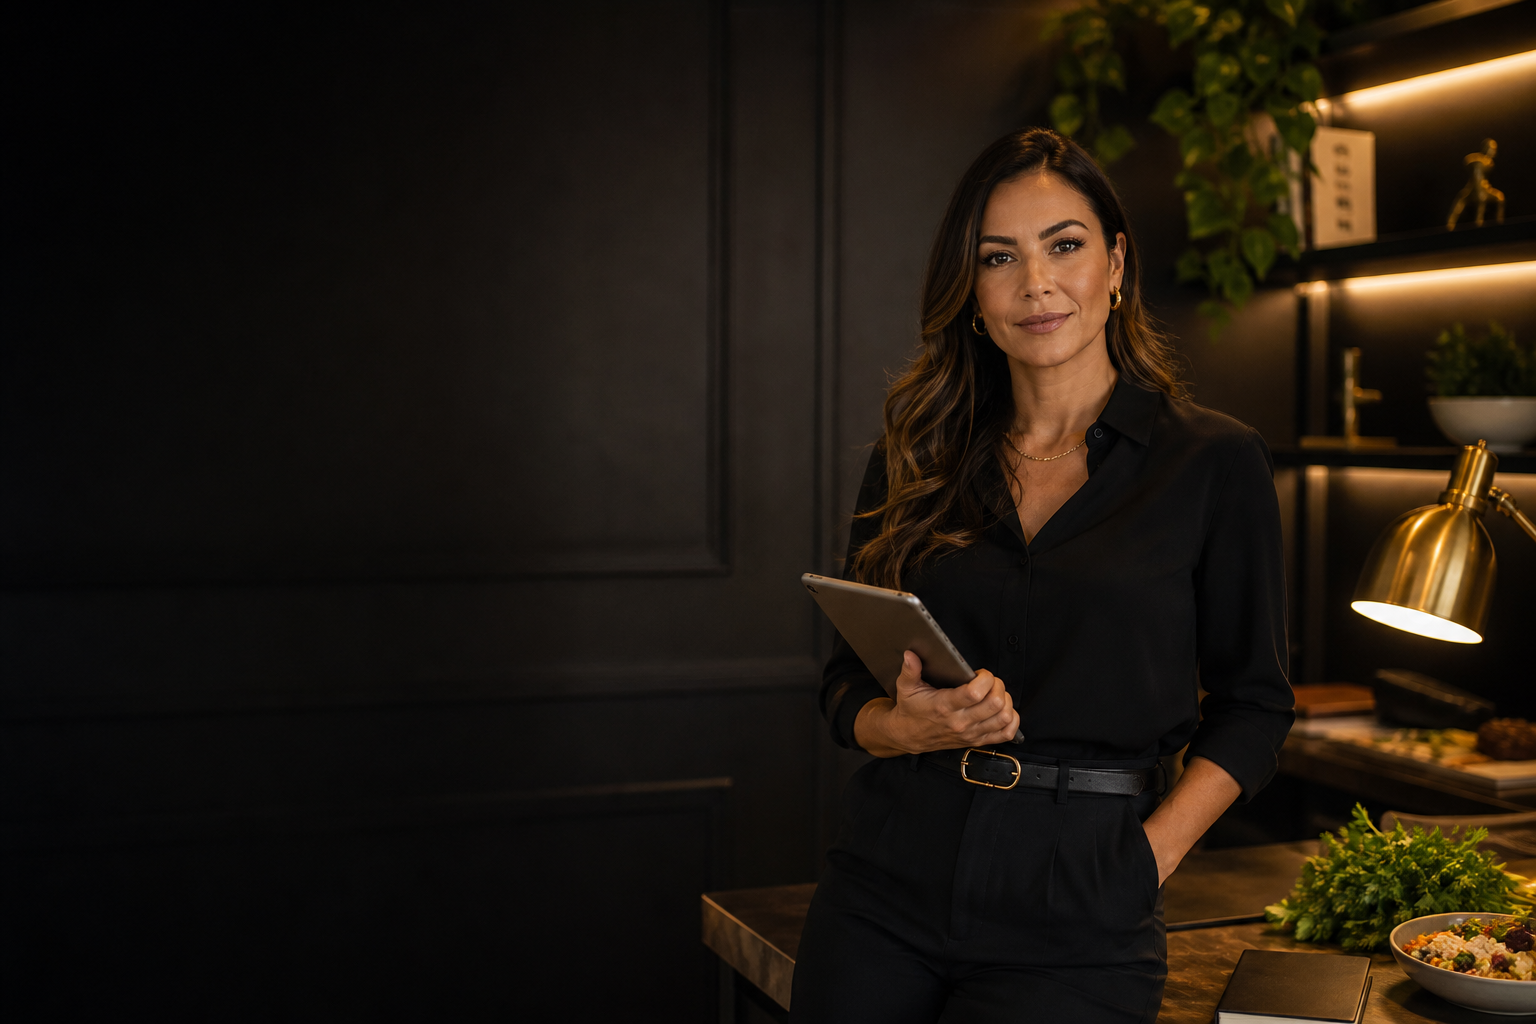
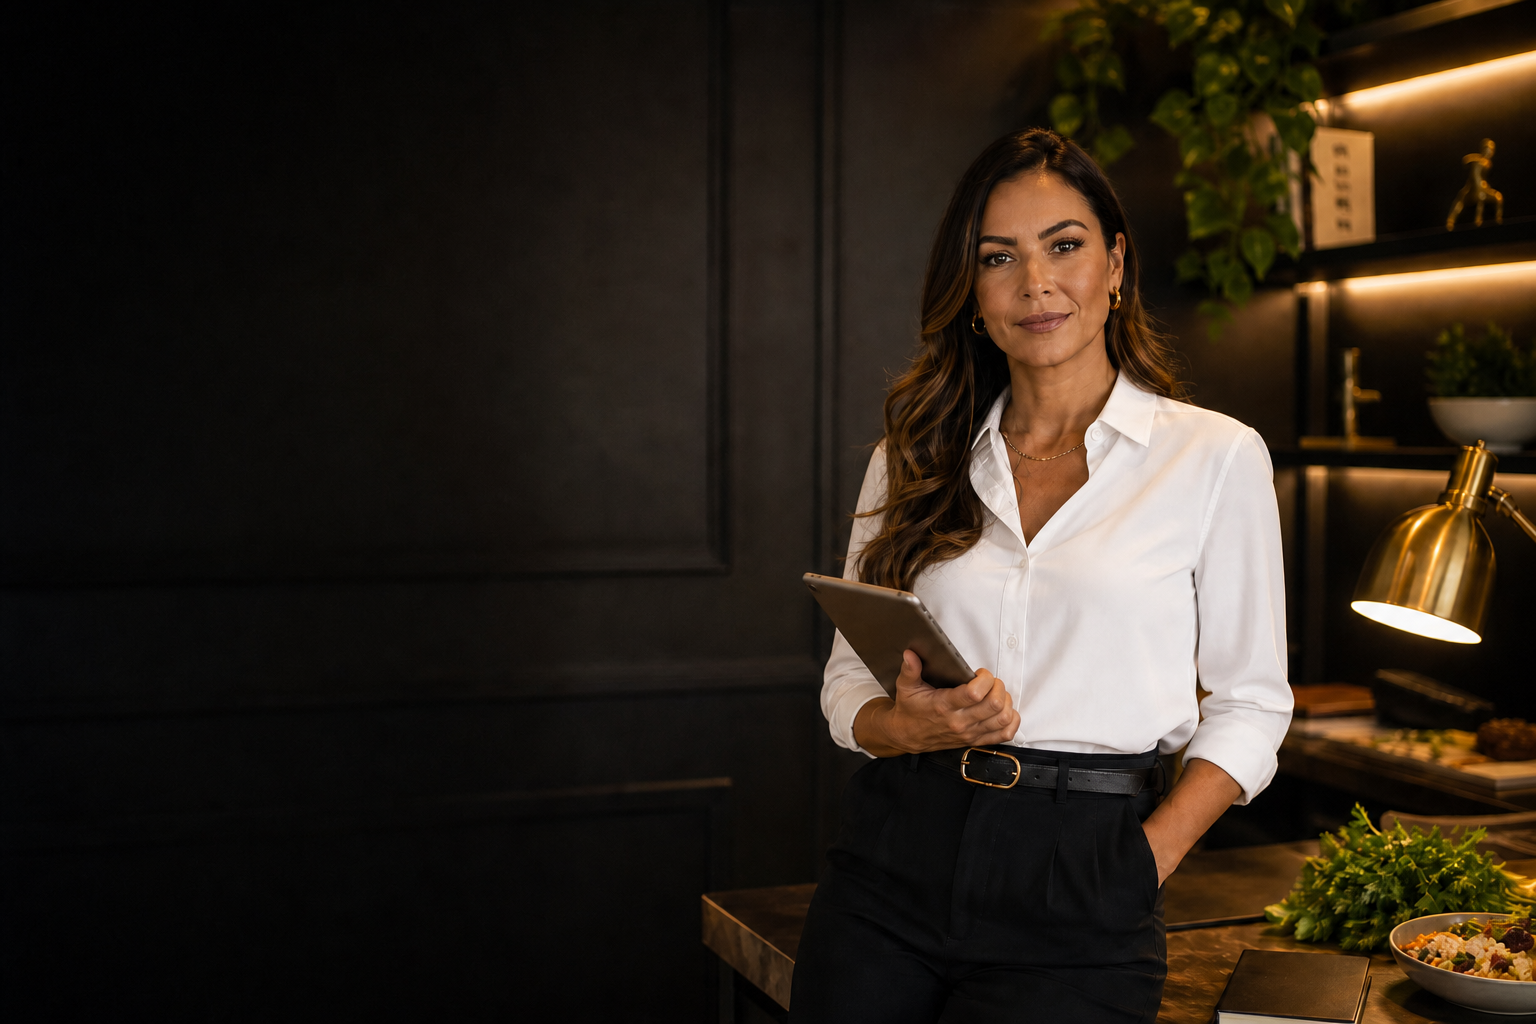
Refresh nutricionistas hero: white blouse, lawyer-style tags, no subtitle.

diff --git a/src/app/nutricionistas/page.tsx b/src/app/nutricionistas/page.tsx
@@ -33,11 +33,10 @@ const WA = WA_NUTRI;
 const WA_ADS = WA_NUTRI_ADS;
 
 const heroFeatures = [
+  "Pagamento único",
+  "Sem mensalidade",
   "Design exclusivo",
-  "SEO",
-  "WhatsApp",
-  "Google Maps",
-  "Agendamento online",
+  "SEO incluso",
 ];
 
 const situations = [
@@ -223,11 +222,6 @@ export default function NutricionistasPage() {
                     <span className="text-teal">confiança</span> e conquistar{" "}
                     <span className="text-teal">novos pacientes</span>.
                   </h1>
-                  <p className="mt-8 max-w-2xl text-base leading-relaxed text-mist/55 sm:mt-9 sm:text-lg">
-                    Criamos sites e landing pages exclusivos para nutricionistas
-                    que desejam fortalecer sua presença online, aparecer melhor
-                    no Google e facilitar o contato de novos pacientes.
-                  </p>
                 </Reveal>
 
                 <Reveal delay={100}>
